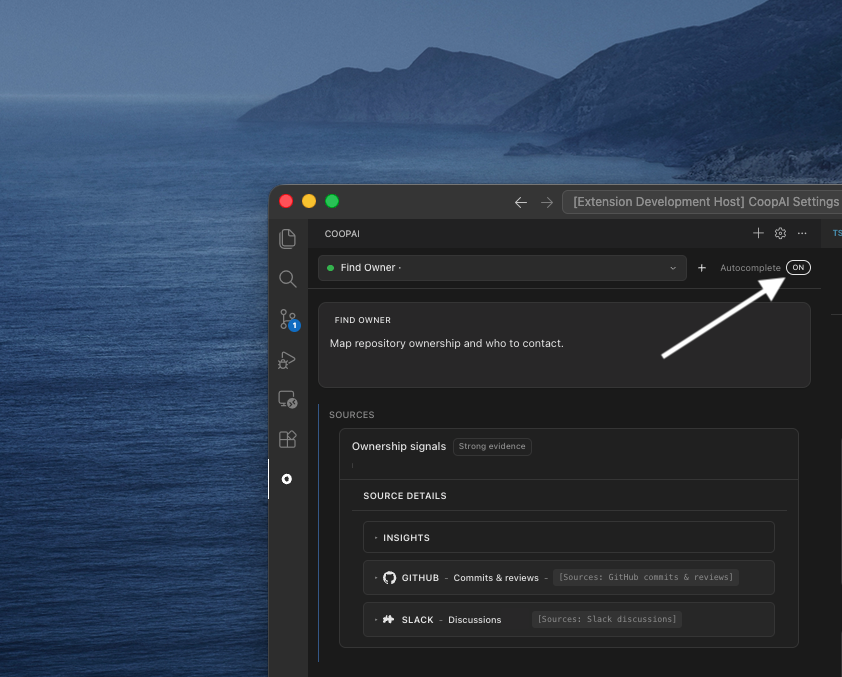
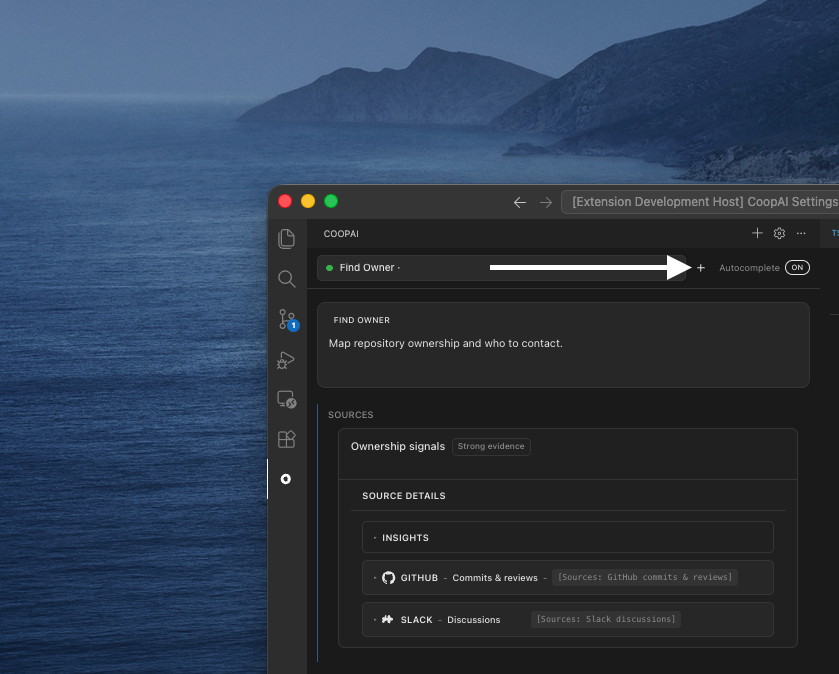
Shrink Owner's Manual screenshots and fix new-chat capture.
Add a compact figure mode (~20% smaller max width) used only by the manual, and replace the New chat screenshot with the corrected image.

diff --git a/website/src/components/DocsMarkdown.tsx b/website/src/components/DocsMarkdown.tsx
@@ -9,6 +9,8 @@ import { splitDocsContent } from "@/lib/docsFigures";
 import {
   docsFigureCaptionClassName,
   docsFigureClassName,
+  docsFigureCompactCaptionClassName,
+  docsFigureCompactClassName,
   docsHeadingH2ClassName,
   docsHeadingH3ClassName,
   docsInlineLinkClassName
@@ -17,6 +19,7 @@ import { slugifyHeading } from "@/lib/manual.shared";
 
 type DocsMarkdownProps = {
   content: string;
+  compact?: boolean;
 };
 
 function isEmOnlyParagraph(children: React.ReactNode): boolean {
@@ -28,7 +31,7 @@ function isEmOnlyParagraph(children: React.ReactNode): boolean {
   return items[0].type === "em";
 }
 
-function DocsMarkdownBlock({ content }: { content: string }) {
+function DocsMarkdownBlock({ content, compact }: { content: string; compact?: boolean }) {
   const afterImageRef = useRef(false);
 
   return (
@@ -81,7 +84,7 @@ function DocsMarkdownBlock({ content }: { content: string }) {
           afterImageRef.current = true;
 
           return (
-            <span className={docsFigureClassName}>
+            <span className={compact ? docsFigureCompactClassName : docsFigureClassName}>
               {/* eslint-disable-next-line @next/next/no-img-element */}
               <img src={src} alt={alt ?? ""} className="h-auto w-full" loading="lazy" />
             </span>
@@ -90,7 +93,11 @@ function DocsMarkdownBlock({ content }: { content: string }) {
         p: ({ children }) => {
           if (afterImageRef.current && isEmOnlyParagraph(children)) {
             afterImageRef.current = false;
-            return <p className={docsFigureCaptionClassName}>{children}</p>;
+            return (
+              <p className={compact ? docsFigureCompactCaptionClassName : docsFigureCaptionClassName}>
+                {children}
+              </p>
+            );
           }
 
           afterImageRef.current = false;
@@ -103,17 +110,17 @@ function DocsMarkdownBlock({ content }: { content: string }) {
   );
 }
 
-export function DocsMarkdown({ content }: DocsMarkdownProps) {
+export function DocsMarkdown({ content, compact }: DocsMarkdownProps) {
   const segments = useMemo(() => splitDocsContent(content), [content]);
 
   return (
     <>
       {segments.map((segment, index) => {
         if (segment.type === "figures") {
-          return <DocsFigureGrid key={`figures-${index}`} items={segment.items} />;
+          return <DocsFigureGrid key={`figures-${index}`} items={segment.items} compact={compact} />;
         }
 
-        return <DocsMarkdownBlock key={`md-${index}`} content={segment.content} />;
+        return <DocsMarkdownBlock key={`md-${index}`} content={segment.content} compact={compact} />;
       })}
     </>
   );

diff --git a/website/src/components/DocsFigureGrid.tsx b/website/src/components/DocsFigureGrid.tsx
@@ -1,23 +1,34 @@
 import {
   docsFigureGridCaptionClassName,
   docsFigureGridClassName,
+  docsFigureGridCompactClassName,
+  docsFigureSingleClassName,
+  docsFigureSingleCompactClassName,
   docsFigureTileClassName
 } from "@/lib/docsStyles";
 import type { DocsFigureItem } from "@/lib/docsFigures";
 
 type DocsFigureGridProps = {
   items: DocsFigureItem[];
+  compact?: boolean;
 };
 
-export function DocsFigureGrid({ items }: DocsFigureGridProps) {
+export function DocsFigureGrid({ items, compact }: DocsFigureGridProps) {
   if (items.length === 0) {
     return null;
   }
 
   const single = items.length === 1;
+  const figureClassName = single
+    ? compact
+      ? docsFigureSingleCompactClassName
+      : docsFigureSingleClassName
+    : compact
+      ? docsFigureGridCompactClassName
+      : docsFigureGridClassName;
 
   return (
-    <figure className={single ? "not-prose my-6 max-w-4xl" : docsFigureGridClassName}>
+    <figure className={figureClassName}>
       {items.map((item) => (
         <div key={item.src} className={single ? undefined : "min-w-0"}>
           <span className={docsFigureTileClassName}>

diff --git a/website/src/lib/docsStyles.ts b/website/src/lib/docsStyles.ts
@@ -27,6 +27,20 @@ export const docsFigureCaptionClassName =
 export const docsFigureGridClassName =
   "not-prose my-6 grid max-w-4xl grid-cols-1 gap-4 sm:grid-cols-2";
 
+// Compact variants: ~20% smaller max widths for the Owner's Manual.
+export const docsFigureCompactClassName =
+  "not-prose my-6 mx-auto block max-w-[28.8rem] overflow-hidden rounded-sm border border-coop-border bg-gray-50 shadow-sm";
+
+export const docsFigureCompactCaptionClassName =
+  "not-prose -mt-4 mb-8 max-w-[28.8rem] mx-auto text-center text-sm text-gray-500";
+
+export const docsFigureGridCompactClassName =
+  "not-prose my-6 grid max-w-[44.8rem] grid-cols-1 gap-4 sm:grid-cols-2";
+
+export const docsFigureSingleClassName = "not-prose my-6 max-w-4xl";
+
+export const docsFigureSingleCompactClassName = "not-prose my-6 max-w-[44.8rem]";
+
 export const docsFigureTileClassName =
   "block overflow-hidden rounded-sm border border-coop-border bg-gray-50 shadow-sm";
 

diff --git a/website/src/components/ManualLayout.tsx b/website/src/components/ManualLayout.tsx
@@ -27,7 +27,7 @@ export function ManualLayout({ manual }: ManualLayoutProps) {
           <div className="lg:grid lg:grid-cols-[15rem_minmax(0,1fr)] lg:gap-14">
             <ManualToc entries={manual.toc} />
             <article className={`min-w-0 ${docsProseClassName}`}>
-              <DocsMarkdown content={manual.content} />
+              <DocsMarkdown content={manual.content} compact />
             </article>
           </div>
         </div>